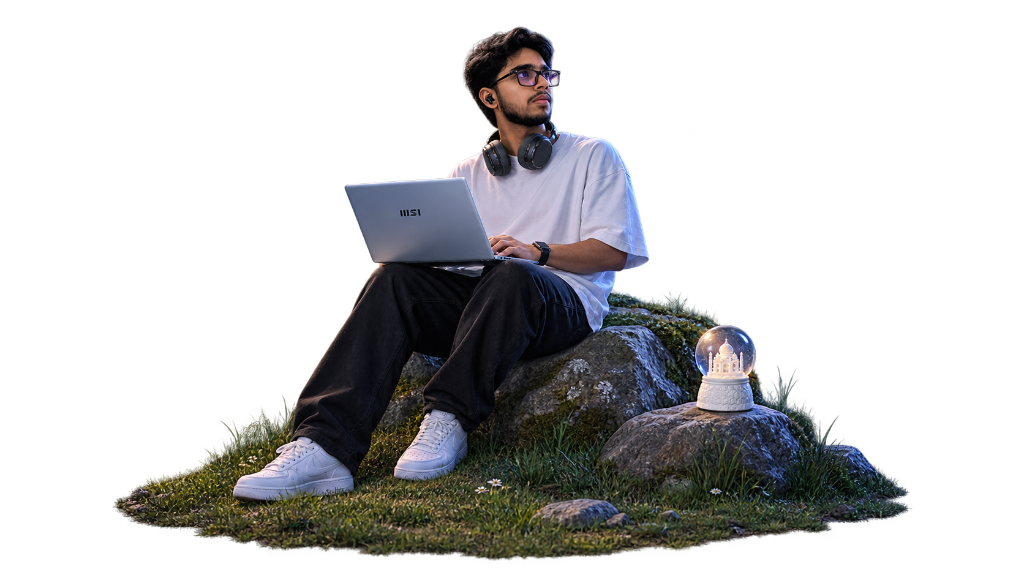
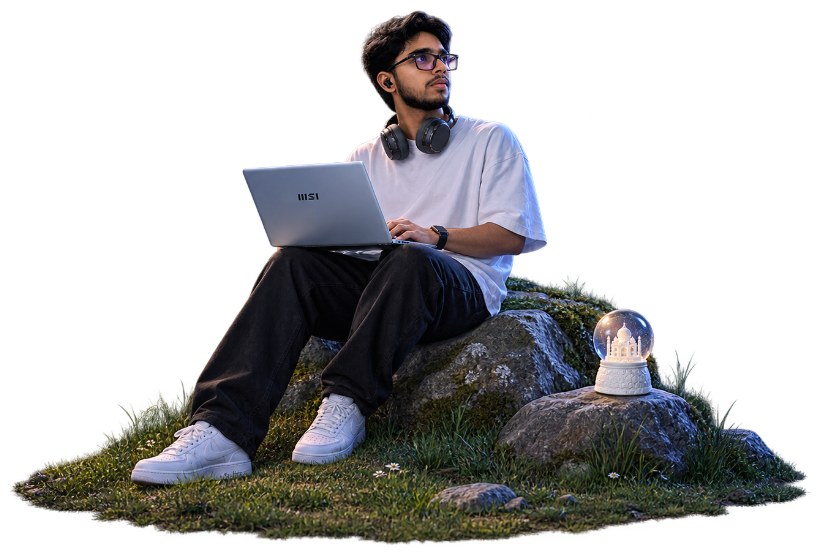
Fix hero character display: use full provided cutout, fix image sizing to fill viewport height properly

Changed region(s): [[0.0, 0.0, 1.0, 0.9819], [0.4573, 0.6751, 0.4878, 0.7058]]

diff --git a/style.css b/style.css
@@ -379,10 +379,12 @@ body.c-link  #c-ring { width: 70px; height: 70px; border-color: rgba(255,255,255
   padding-bottom: 2vh;
 }
 .character-img {
-  max-height: 100%;
-  max-width: 100%;
+  height: 90vh;
+  width: auto;
+  max-width: none;
   object-fit: contain;
-  filter: drop-shadow(0 15px 35px rgba(0, 0, 0, 0.85));
+  filter: drop-shadow(0 15px 45px rgba(0, 0, 0, 0.9));
+  display: block;
 }
 
 /* Layer 6: Stage 3 Content Interface */
@@ -1643,6 +1645,9 @@ body.c-link  #c-ring { width: 70px; height: 70px; border-color: rgba(255,255,255
     max-width: 600px;
     height: 75vh;
   }
+  .character-img {
+    height: 75vh;
+  }
   .layer-stage3-content {
     padding: 70px 18px 24px;
     overflow-y: auto;
@@ -1770,6 +1775,9 @@ body.c-link  #c-ring { width: 70px; height: 70px; border-color: rgba(255,255,255
     height: 220vh;
   }
   .character-wrapper {
+    height: 65vh;
+  }
+  .character-img {
     height: 65vh;
   }
   .portfolio-word {

diff --git a/index.html b/index.html
@@ -88,7 +88,7 @@
       <!-- Layer 5: Foreground Character on Mossy Rock with Laptop & Globe -->
       <div class="cinematic-layer layer-character" id="layer-character">
         <div class="character-wrapper" id="character-wrapper">
-          <img src="assets/hero-subject.png" alt="Husni Mujeeb — Art Director" class="character-img" id="hero-character" />
+          <img src="assets/hero-subject.png?v=2" alt="Husni Mujeeb — Art Director" class="character-img" id="hero-character" />
         </div>
       </div>
 
